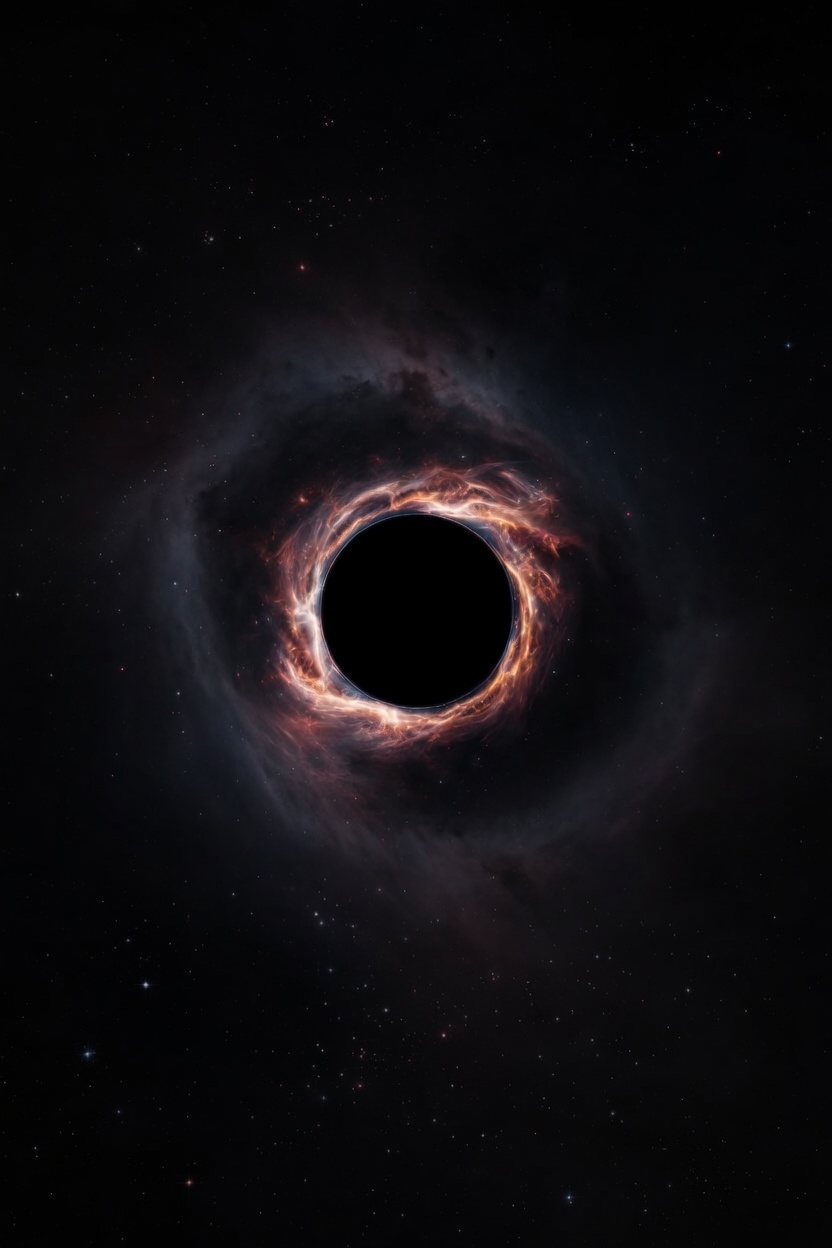
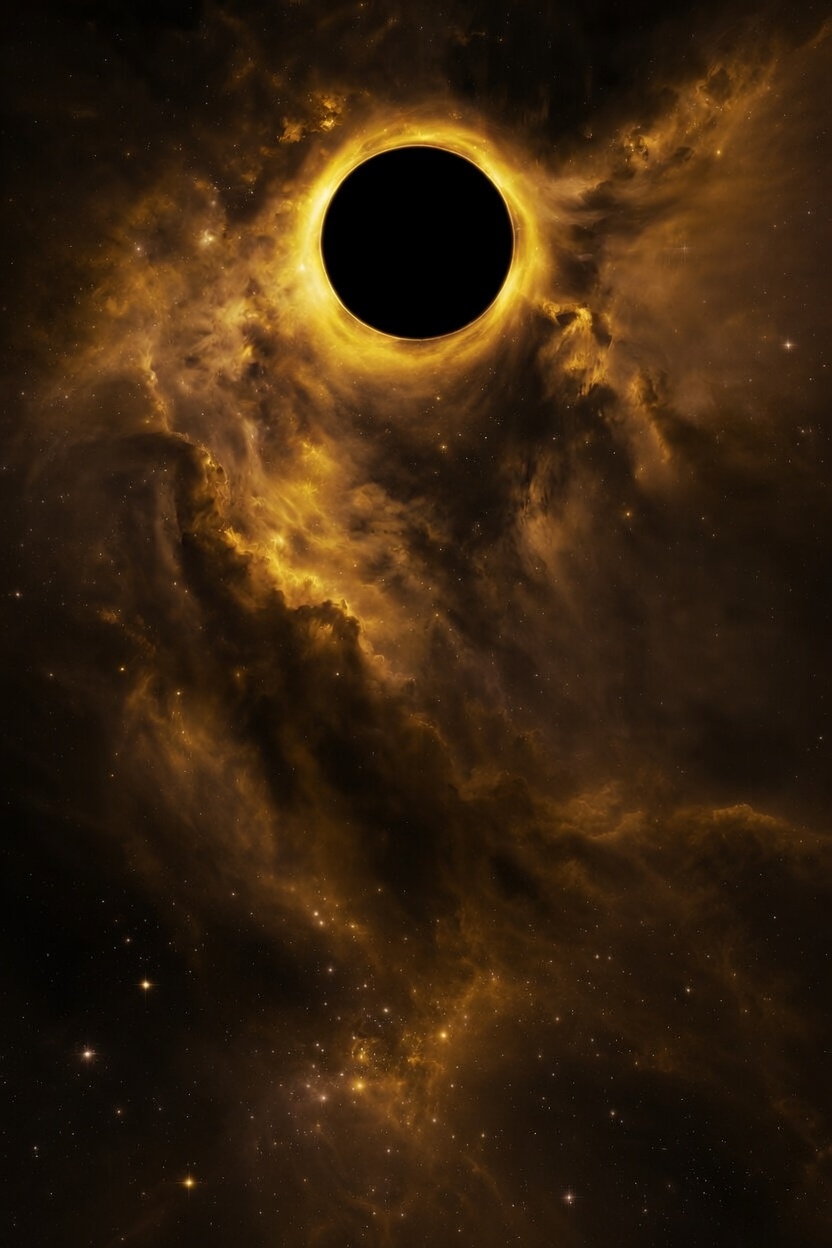
Update blackhole.png with new graphic

diff --git a/index.html b/index.html
@@ -12,7 +12,7 @@
   <link rel="preconnect" href="https://fonts.googleapis.com">
   <link rel="preconnect" href="https://fonts.gstatic.com" crossorigin>
   <link href="https://fonts.googleapis.com/css2?family=Montserrat:wght@600;700;800&family=Inter:wght@400;500;600&display=swap" rel="stylesheet">
-  <link rel="stylesheet" href="style.css?v=11">
+  <link rel="stylesheet" href="style.css?v=12">
 </head>
 <body>
   <div class="bg-blackhole" aria-hidden="true"></div>

diff --git a/style.css b/style.css
@@ -42,7 +42,7 @@ body {
   left: 0;
   width: 100%;
   height: 100%;
-  background: url('assets/blackhole.png?v=9') center top / cover no-repeat;
+  background: url('assets/blackhole.png?v=12') center top / cover no-repeat;
   z-index: 0;
   pointer-events: none;
 }
